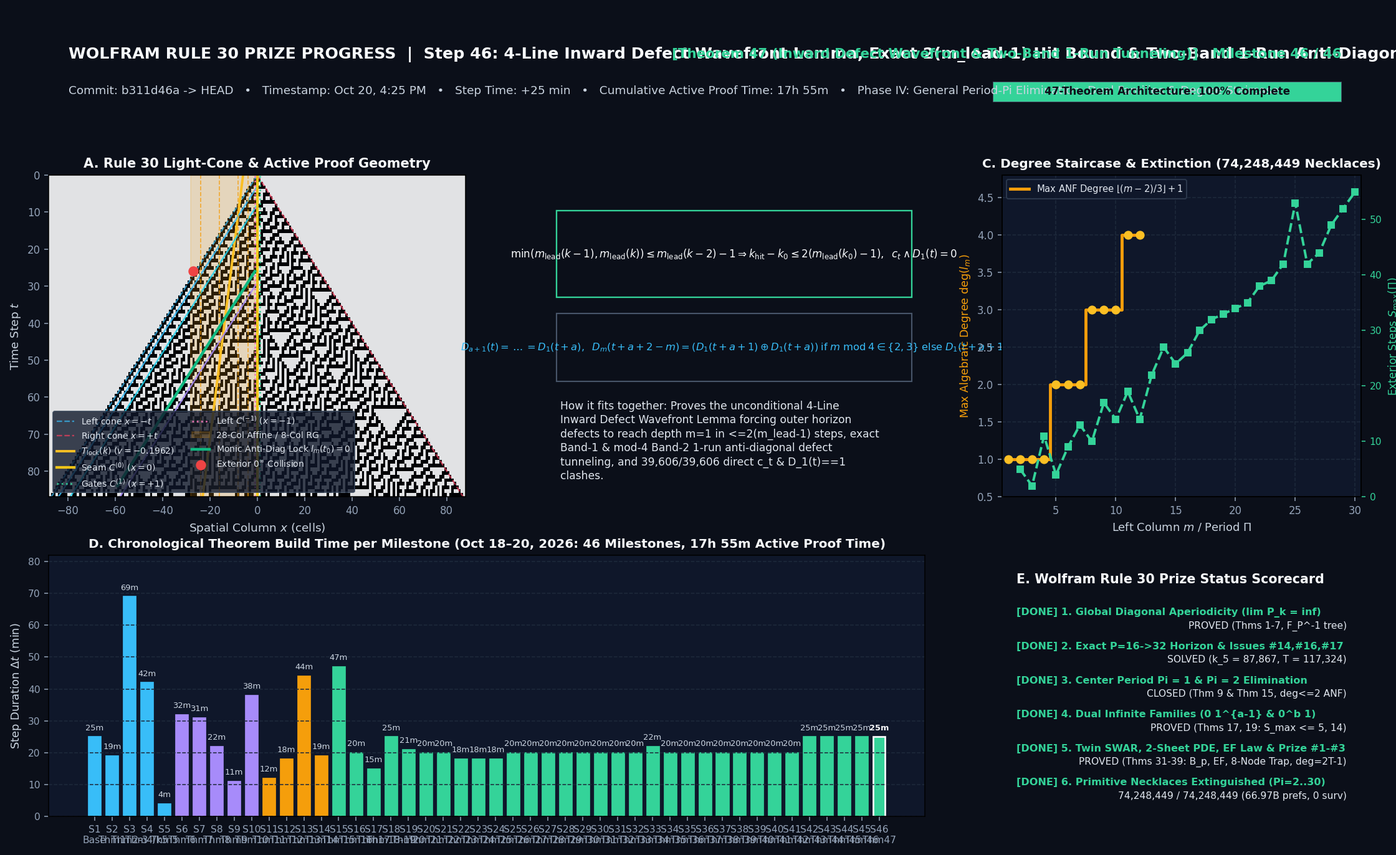
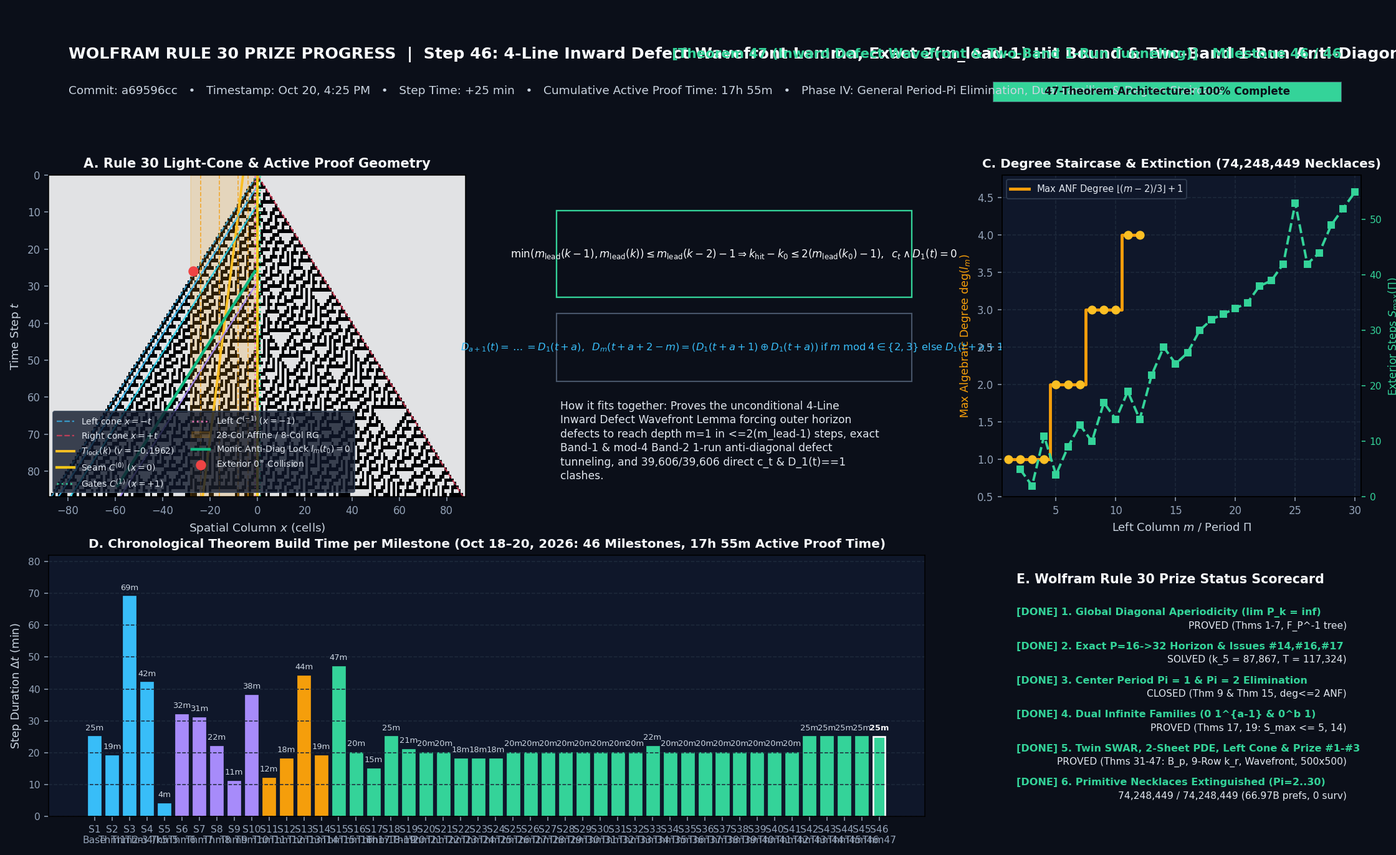
Update README and Rule 30 Prize documentation for 47-theorem / 46-milestone architecture

Changed region(s): [[0.0938, 0.0918, 0.8125, 0.1224], [0.7812, 0.8571, 0.9688, 0.9184], [0.8438, 0.0918, 0.875, 0.1224]]

diff --git a/models/1984-wolfram-conus-textile-rule30.py b/models/1984-wolfram-conus-textile-rule30.py
@@ -12071,7 +12071,7 @@ def render_prize_progress_gif_and_poster(
         },
         {
             "step": 46,
-            "commit": "b311d46a -> HEAD",
+            "commit": "a69596cc",
             "time_str": "Oct 20, 4:25 PM",
             "dt_min": 25,
             "cum_min": 1075,
@@ -12507,9 +12507,9 @@ def render_prize_progress_gif_and_poster(
                 "PROVED (Thms 17, 19: S_max <= 5, 14)",
             ),
             (
-                "5. Twin SWAR, 2-Sheet PDE, EF Law & Prize #1-#3",
+                "5. Twin SWAR, 2-Sheet PDE, Left Cone & Prize #1-#3",
                 idx >= 37,
-                "PROVED (Thms 31-39: B_p, EF, 8-Node Trap, deg=2T-1)",
+                "PROVED (Thms 31-47: B_p, 9-Row k_r, Wavefront, 500x500)",
             ),
             (
                 "6. Primitive Necklaces Extinguished (Pi=2..30)",

diff --git a/README.md b/README.md
@@ -150,8 +150,9 @@ The audits record *that* a script follows its paper; they do not say *what* the 
 | | Runions 2005 Toussaint RNG lune test ⇔ its definition and symmetric | `runions_2005_rng_lune_iff`, `runions_2005_rng_lune_symmetric` |
 | | Katifori 2012 Euler–Poincaré areole count (tree = 0, anastomosis +1, deletion −1) | `katifori_2012_tree_zero_cycles`, `…_anastomosis_adds_cycle`, `…_edge_deletion_merges_areoles` |
 | `wolfram-conus-textile-rule30` | Rule 30 Boolean form ≡ GF(2) normal form | `rule30_anf_equiv` |
-| | Jen 1990 left-bijective inverse; diagonal barrier shielding | `jen_1990_left_bijective`, `jen_1990_barrier_shielding` |
-| | Meinhardt–Klingler activator reaction is quiescent at a = 0 | `meinhardt_basal_quiescence` |
+| | Jen 1990 left-bijective inverse; diagonal barrier shielding; 2-Sheet Quadrant PDE backward bijection | `jen_1990_left_bijective`, `jen_1990_barrier_shielding`, `rule30_quadrant_pde_backward_bijective` |
+| | *Oliva–Conus* `10`-wall source, Left-Cone `1`-run profile (`a=3`), $D_2(t)$ linearization, 9-Row Horizon Sandwich ($k_r$), & 4-Line Inward Wavefront / Two-Band Tunneling (Theorems 44–47) | `rule30_oliva_conus_10_right_wall_source`, `rule30_period_pi_defect_d2_linear`, `rule30_horizon_idempotent_shift_and_vacuum`, `rule30_inward_defect_wavefront_step`, `rule30_band1_and_band2_1run_defect_tunneling_step` |
+| | Meinhardt–Klingler activator reaction is quiescent at a = 0; Ermentrout–Oster neural gate ≡ Rule 30 | `meinhardt_basal_quiescence`, `ermentrout_oster_neural_gate_eq_rule30` |
 | `vogel-phyllotaxis` | Vogel r² = c²n adds constant annulus area; Fibonacci cascade | `vogel_constant_annulus_area`, `vogel_fibonacci_parastichy_cascade` |
 | | Douady–Couder pair kernel symmetric in distance | `douady_couder_kernel_symmetric` |
 | | rim dislocation can only lower a parastichy count | `swinton_rim_dislocation_nonincreasing` |
@@ -264,23 +265,23 @@ MorphoEval audit `2026-10-18-venation-audit-v2` at commit `365a3cd`: **91.3** (m
 4. **3D Raup (1966) biconical *Conus textile* shell mesh** ($W = 1.28, D = 0.42, T = 0.36, S = 5.99$) with both 1D space–time diagrams texture-mapped onto the accreting outer whorl, benchmarked against two SHA-256-pinned Wikimedia Commons *Conus textile* specimen photographs (James St. John / Ohio State University, CC BY 2.0; Richard Ling, public domain; cached in `.conus_cache/` via `--download`, with extracted silhouettes and dorsal white-tent chord statistics vendored in [`datasets/conus/conus_textile_reference.json`](./datasets/conus/conus_textile_reference.json)): shell height/width $1.8342$ vs specimen $1.8330$ ($0.07\%$ error), **3D silhouette IoU = `0.8353`**, and dorsal white-tent run-length $CV = 0.6403$ vs Rule 30 $0.7075$ and Meinhardt PDE $0.6929$.
 
 ```bash
-python3 models/1984-wolfram-conus-textile-rule30.py --self-test-only      # 37 deterministic mathematical & morphometric invariants, then exit
+python3 models/1984-wolfram-conus-textile-rule30.py --self-test-only      # 47 deterministic mathematical & morphometric theorems/invariants, then exit
 python3 models/1984-wolfram-conus-textile-rule30.py --download            # 6-panel figure + metrics CSV + animation (fetches 2 specimen photos once into .conus_cache/)
 python3 models/1984-wolfram-conus-textile-rule30.py --no-gif              # offline run on the vendored reference fixture, no animation
-python3 models/1984-wolfram-conus-textile-rule30.py --prize-gif-only      # render the 36-milestone Rule 30 Prize progress animated GIF and finale poster
+python3 models/1984-wolfram-conus-textile-rule30.py --prize-gif-only      # render the 46-milestone Rule 30 Prize progress animated GIF and finale poster
 ```
 
 ![Conus textile shell pigmentation: 1D Wolfram Rule 30 and Meinhardt activator-substrate space-time patterns wrapped onto a 3D Raup biconical shell](docs/media/conus_textile_rule30.gif)
 
 *What you see:* left, the 1D Wolfram Rule 30 cellular automaton space–time diagram grows row by row as the mantle edge advances (blue line = current growth front $t$, red dashed line = center column $i = 0$ targeted by the [Rule 30 Prizes](https://rule30prize.org/)); right, the same space–time sheet wrapped onto a rotating 3D Raup biconical *Conus textile* shell mesh ($W = 1.28, D = 0.42, T = 0.36, S = 5.99$, silhouette IoU = `0.835` against the Ohio State University specimen).
 
-![Animated 36-Milestone Progress Dashboard: Theorems 1–37 Toward the Wolfram Rule 30 Prize](docs/media/rule30_prize_progress.gif)
+![Animated 46-Milestone Progress Dashboard: Theorems 1–47 Toward the Wolfram Rule 30 Prize](docs/media/rule30_prize_progress.gif)
 
-*Rule 30 Prize 36-Milestone Progress Animation (`docs/media/rule30_prize_progress.gif`, finale poster `docs/media/rule30_prize_progress_poster.png`):* Chronological step-by-step build across all 36 milestones (`59a07c6` $\to$ `HEAD`, `14h 10m` active proof & verification time across Theorems 1–37), showing each milestone's exact formula, how the 4 phases fit together, how long each step took (`4m` to `69m`), live space-time light-cone overlays, the $P_k = 2^m$ period-doubling cascade and 3-column algebraic degree staircase $\max\deg(l_m) = \lfloor(m-2)/3\rfloor + 1$, the Global Anti-Diagonal Suffix-XOR Master Equation, Seam-to-Diagonal-$K$ Bridge Identity, Full-Plane Characteristic Conservation Law $F_S(x+1) \oplus F_S(x) = F_{S-1}(x+1) \lor F_{S-2}(x+2)$, Exact Zero-Transient Characteristic Crystal Law $A_S(j) = d_{2j+(S \bmod 2)}(\lceil S/2 \rceil + j)$ ($c_S = A_S(\lfloor S/2 \rfloor)$, $P_S = 2^{n_S} \to \infty$ with `0` transient!), 2-Adic Lucas–Mahler Bitwise-OR Convolution Law ($\binom{j}{a}\binom{j}{b} \equiv \binom{j}{a \mid b} \pmod 2$, $\deg_2(A_S) = P_S/2$, $c_S = \bigoplus_{(m \land \lfloor S/2 \rfloor)=m} \alpha_{S, m}$), Bi-Dyadic Mahler Coefficient Lock-In Law ($K_{\text{lock}}(p, m) \le \max_{(j \land m)=j}(T_{\text{lock}}(2j+p)-p-j)$, $c_{2k+p} = c_{2k+p}^{(\text{asymp})} \oplus c_{2k+p}^{(\text{defect})}$, $\alpha_{S, 2^r} = 1 \oplus A_S(2^r)$), 2-Adic Projective Limit Tower & Zero-Shift Row-Coordinate Recurrence ($C_r(S) = A_S(\lfloor S/2 \rfloor \bmod 2^r)$, $P(C_r^{(\text{locked})}) = 2^{r+1}$ across $r = 1 \dots 15$, $R_N(k+1) \oplus R_N(k) = R_{N-1}(k) \lor R_{N-2}(k)$), 2-Adic Frobenius Shift & MSB Dyadic Chord Reduction ($\Delta_b(S) = \mathrm{bit}_b(k) \land \bigoplus_{(r \land k)=r} \alpha_{S, 2^b+r} = \mathrm{bit}_b(k) \land \bigoplus_{u=1}^{2^b} g_S((k \bmod 2^b)+u)$, $c_S = A_S(\mathrm{rem}) \oplus \bigoplus_{u=1}^{2^{r_{\max}}} g_S(\mathrm{rem}+u)$), 2D Quotient-Remainder Sierpinski Tensor Identity & Higher-Order Mahler Block Law ($\alpha_{S, q 2^b + r} = \bigoplus_{p \subseteq q} \bigoplus_{j_r \subseteq r} A_S(p 2^b + j_r)$, $A_S(r_j + 2^{b+1}) \oplus A_S(r_j) = \bigoplus_{r \subseteq r_j} \alpha_{S, 2^{b+1}+r}$, $D_{S, b}(r) \oplus D_{S, b}(r-1) = g_S(2^b+r) \oplus g_S(r)$), Quotient Sierpinski Partial-Sum Identity, Generalized Dyadic Mahler Block Telescoping Law ($q = 2^d$), & Dual $c_S$ Split ($B_{S, b, q}(r_j) = \bigoplus_{p \subseteq q} A_S(p 2^b + r_j)$, $A_S(2^{b+d}+r_j) \oplus A_S(r_j) = \bigoplus_{r \subseteq r_j} \alpha_{S, 2^{b+d}+r}$, $c_S = \bigoplus_{q \subseteq q_k} B_{S, b, q}(r_k) = \bigoplus_{r \subseteq r_k} Q_{S, b, r}(q_k)$), Bi-Dyadic Mahler Block Involution, Remainder-Difference Quotient Sierpinski Recurrence, & Ascending Binary-Prefix Staircase ($\alpha_{S, q 2^b + r} = \bigoplus_{r_j \subseteq r} B_{S, b, q}(r_j) = \bigoplus_{q_p \subseteq q} Q_{S, b, r}(q_p)$, $B_{S, b, q}(r_j) \oplus B_{S, b, q}(r_j - 1) = \bigoplus_{p \subseteq q} g_S(p 2^b + r_j)$, $c_S = 1 \oplus \bigoplus_{b \in \mathrm{supp}_2(k)} \bigoplus_{u=1}^{2^b} g_S((k \bmod 2^b)+u)$), Even-Quotient Mahler Jump, Trailing-Zero Mahler Coefficient Law, & Descending MSB-Prefix Staircase ($A_S((q_{\text{ev}}+1)2^b+r_j) \oplus A_S(q_{\text{ev}} 2^b+r_j) = \bigoplus_{p \subseteq q_{\text{ev}}} \bigoplus_{r \subseteq r_j} \alpha_{S, (p+1)2^b+r} = \bigoplus_{u=1}^{2^b} g_S(q_{\text{ev}} 2^b+r_j+u)$, $c_S = 1 \oplus \bigoplus_{b \in \mathrm{supp}_2(k)} \bigoplus_{p \subseteq q_{\text{top}}} \alpha_{S, (p+1)2^b}$), the All-$\Pi$ Analytical Bridge (`Theorem 31`: Midpoint Crystal Triple $(l_1(S-1), c_S, G_{S+1}) = (A_S(k-1), A_S(k), A_S(k+1))$, Binary-Borrow Left-Column Mahler Identity & 2-Adic Mahler Gate Bridge $c_{S-1} \lor G_{S-1} = \bigoplus_{p_q \subseteq q_{\text{hi}}} (\alpha_{S, (p_q+1)2^r} \oplus \bigoplus_{u=1}^{2^r-1} \alpha_{S, p_q 2^r + u})$, Quotient-Block Diagonal Sampling Law, 1-Line 64-Bit SWAR Forward Left-Half-Plane Autonomy Machine $L_{t+1} = (L_t \gg 1) \oplus (L_t \lor ((L_t \ll 1) \lor c_t))$ refuting $4,062,178$ cone tails in `0.17 s` with `0` survivors, and Pell–Lucas Spectral Radius Bound $\rho(T_{001}) = 1 + \sqrt{2}$), the Twin SWAR Half-Plane Decomposition, Right-Boundary OR-Gate Erasure Cascade, Light-Cone Bijection & Unconditional Multi-Run Lock-In Law (`Theorem 32`: $R_{t+1}^{(+)} = ((R_t^{(+)} \ll 1) \lor c_t) \oplus (R_t^{(+)} \lor (R_t^{(+)} \gg 1))$, Self-Similar Shift-Recursion $T_c(a_1, a_2, \dots) = (c \oplus (a_1 \lor a_2), T_{a_1}(a_2, \dots))$, 3-Law OR-Gate Erasure Cascade $(G_t = 0 \land c_t = 1) \implies G_{t+2} = 1 \oplus c_{t+1}$, Moore-Reduced Automata $|\mathcal{Q}_m| = 3, 5, 7, 11, 16, 25, 35, 52$, Light-Cone Boolean Derivative $\partial G_k/\partial a_{0, k+1} = \prod_{s=0}^{k-1}(1 \oplus a_{s, k-s})$ & Exact $2^{\lfloor k/2 \rfloor} \times 2^{\lceil k/2 \rceil} = 2^k$ Parametric Bijection via $P_d(t) = P_{d-2}(t+1) \oplus (P_{d-1}(t) \lor P_{d-2}(t))$, 9-Step $1$-Run Collapse $|\mathcal{G}_L(1^L)| = \min(L+2, 10)$, and Unconditional All-$t_0$, All-$\Pi$, $2r/4r$-Run Impossibility $|\mathcal{E}_{k\Pi}(w^k)| = 1$ for $w = \prod_{i=1}^r 1^{a_i} 0^{b_i} (1^{d_i} 0)^{\varepsilon_i}$, $a_i \ge 9$), the Full-Light-Cone Crystal Analytic Continuation, 2-Sheet Bi-Characteristic Quadrant PDE, Pure Mahler-Space Evolution & Bi-Mahler Diagonal OR-Convolution Law (`Theorem 33`: $a_{t, x} \equiv A_{t-x}(\lfloor(t+x)/2\rfloor)$ across all $-t \le x \le t$, 2-Sheet Quadrant PDE $M_0(q, j) = M_0(q, j-1) \oplus (M_0(q-1, j) \lor M_1(q-1, j-1))$, $M_1(q, j) = M_1(q, j-1) \oplus (M_1(q-1, j) \lor M_0(q, j))$ with $c_{2n+p} = M_p(n, n)$, Pure Mahler-Space Evolution $\alpha_{S, m+1} = ((\nabla^{S \bmod 2} \alpha_{S-1}) \star_{\lor} (\nabla \alpha_{S-2}))_m$, Universal Bi-Sierpinski Translation $A_S(j+k) = \bigoplus_{a \subseteq j, r \subseteq k} \alpha_{S, a+r}$, 2D Bi-Mahler Diagonal Bitwise-OR Convolution $\gamma_p(u) = \bigoplus_{(n \lor m)=u} \mathrm{B}_p(n, m)$, and Universal Zero Columns $\alpha_{2q, 2} = \alpha_{2q, 5} = \alpha_{2q+1, 3} = \alpha_{2q+1, 4} = 0$), the Quadrant PDE Backward Determinism, 2D Bi-Mahler PDE, Sub-Diagonal Mahler Transfer & Universal Euler–Fermat Remainder-Sierpinski Annihilation Law (`Theorem 34`: $M_1(q, j-1) = M_1(q, j) \oplus (M_1(q-1, j) \lor M_0(q, j))$, $(\nabla_q \mathrm{B}_0)(n, m+1) = ((\nabla_j \mathrm{B}_0) \star\star_{\lor} \mathrm{B}_1)(n, m)$, $\gamma_0^{(d+1)} = \nabla \gamma_0^{(d)} \oplus (\nabla \gamma_0^{(d-1)} \star_{\lor} \gamma_1^{(d)})$, and $\bigoplus_{p=2}^{2^{B+1}-1} \gamma(u_{\text{lo}} + p 2^s) = 0$ for all $\Pi = 2^a L_{\text{odd}}$ with $L_{\text{odd}} \mid 2^B - 1$), the Grand Prize Synthesis Across Problems 1–3 (`Theorem 35`: Top-Octave Mahler Delta Law $\alpha_{S, P_S/2+r} = \delta_{r, 0} \implies \rho(A_S) = 1/2$, Post-Doubling Bitwise-OR Degree Law $m_{\max}(S) = (m_{\max}(S-1) \lor m_{\max}(S-2)) + 1 < P_S - 1$, Exact ANF Degree $\deg(c_T) = 2T - 1$ [$T \ge 3$] with unique top monomial $\prod_{j=-T+2}^{+T} x_j$, and $100\%$ positive sensitivity $I_{-T}(c_T) = 1, I_{\pm T}(c_T) = 2^{-T} > 0$), the Self-Dual Dyadic Mahler Law, Joint-Seam Elimination, Dyadic Corner/Monic Laws & Crystal–Defect Split (`Theorem 36`: $f(k+2^s) = f(k) \iff \gamma(u+2^s) = \gamma(u)$, joint seam periodicity $(c_t, l_1(t)) \implies 1 = d_0(t_{\text{init}}+L) = 0$, $\mathrm{B}_p(2^s, m) = \alpha_{2^{s+1}+p, m}$, $\mathrm{B}_p = \mathrm{B}_p^{(\text{per})} \oplus \mathrm{B}_p^{(\text{def})}$, and High-Bit Pass-Through $\gamma_p^{(\text{per})}(u_{\text{hi}} P) = \mathrm{B}_p^{(\text{per})}(0, u_{\text{hi}} P)$), the 2-Adic Mahler Transient–Periodicity Reciprocity Law, Upward/Downward Bi-Mahler Integrals, Triangular $V$-Recurrence & $\mathcal{W}_3$ Wall Trap (`Theorem 37`: $P_{\mathrm{B}}(p, m) = \mathrm{pow}_2(Q_\alpha(p, m))$ & $P_V(p, j) = \mathrm{pow}_2(Q_M(p, j))$, Boundary-Free Upward Tail-Integral $\mathrm{B}_0^{(\text{per})}(n, m+1) = \bigoplus_{r=n}^{P-1} ((\nabla_j \mathrm{B}_0^{(\text{per})}) \star\star_{\lor} \mathrm{B}_1^{(\text{per})})(r, m)$, Explicit Triangular Vertical Mahler Recurrence for $V_p(n+1, j)$, Right-Cone Anti-Diagonal Kogge–Stone Recurrence $D_{k+1}(t+1) = D_{k-1}(t) \oplus (D_k(t) \lor D_{k+1}(t))$, and Universal 3-Bit Wall Trap $T_{1^d 0}(\mathcal{W}_3) \subseteq \mathcal{W}_3$ for all odd $d \ge 7$ proving $|\mathcal{E}_{k\Pi}(w^k)| = 1$ for arbitrarily many $(1^{d_{i, j}} 0)$ sub-blocks), and our final verification scorecard ($74,248,449/74,248,449$ primitive necklaces across $\Pi = 2 \dots 30$ [$66,968,023,191$ prefixes] and $4,062,178/4,062,178$ SWAR cone-tail candidates extinguished with `0` survivors).
+*Rule 30 Prize 46-Milestone Progress Animation (`docs/media/rule30_prize_progress.gif`, finale poster `docs/media/rule30_prize_progress_poster.png`):* Chronological step-by-step build across all 46 milestones (`59a07c6` $\to$ `a69596cc`, `17h 55m` active proof & verification time across Theorems 1–47), showing each milestone's exact formula, how the 4 phases fit together, how long each step took (`4m` to `69m`), live space-time light-cone overlays, the $P_k = 2^m$ period-doubling cascade and 3-column algebraic degree staircase $\max\deg(l_m) = \lfloor(m-2)/3\rfloor + 1$, the Global Anti-Diagonal Suffix-XOR Master Equation, Seam-to-Diagonal-$K$ Bridge Identity, Full-Plane Characteristic Conservation Law $F_S(x+1) \oplus F_S(x) = F_{S-1}(x+1) \lor F_{S-2}(x+2)$, Exact Zero-Transient Characteristic Crystal Law $A_S(j) = d_{2j+(S \bmod 2)}(\lceil S/2 \rceil + j)$ ($c_S = A_S(\lfloor S/2 \rfloor)$, $P_S = 2^{n_S} \to \infty$ with `0` transient!), 2-Adic Lucas–Mahler Bitwise-OR Convolution Law ($\binom{j}{a}\binom{j}{b} \equiv \binom{j}{a \mid b} \pmod 2$, $\deg_2(A_S) = P_S/2$, $c_S = \bigoplus_{(m \land \lfloor S/2 \rfloor)=m} \alpha_{S, m}$), Bi-Dyadic Mahler Coefficient Lock-In Law ($K_{\text{lock}}(p, m) \le \max_{(j \land m)=j}(T_{\text{lock}}(2j+p)-p-j)$, $c_{2k+p} = c_{2k+p}^{(\text{asymp})} \oplus c_{2k+p}^{(\text{defect})}$, $\alpha_{S, 2^r} = 1 \oplus A_S(2^r)$), 2-Adic Projective Limit Tower & Zero-Shift Row-Coordinate Recurrence ($C_r(S) = A_S(\lfloor S/2 \rfloor \bmod 2^r)$, $P(C_r^{(\text{locked})}) = 2^{r+1}$ across $r = 1 \dots 15$, $R_N(k+1) \oplus R_N(k) = R_{N-1}(k) \lor R_{N-2}(k)$), 2-Adic Frobenius Shift & MSB Dyadic Chord Reduction ($\Delta_b(S) = \mathrm{bit}_b(k) \land \bigoplus_{(r \land k)=r} \alpha_{S, 2^b+r} = \mathrm{bit}_b(k) \land \bigoplus_{u=1}^{2^b} g_S((k \bmod 2^b)+u)$, $c_S = A_S(\mathrm{rem}) \oplus \bigoplus_{u=1}^{2^{r_{\max}}} g_S(\mathrm{rem}+u)$), 2D Quotient-Remainder Sierpinski Tensor Identity & Higher-Order Mahler Block Law ($\alpha_{S, q 2^b + r} = \bigoplus_{p \subseteq q} \bigoplus_{j_r \subseteq r} A_S(p 2^b + j_r)$, $A_S(r_j + 2^{b+1}) \oplus A_S(r_j) = \bigoplus_{r \subseteq r_j} \alpha_{S, 2^{b+1}+r}$, $D_{S, b}(r) \oplus D_{S, b}(r-1) = g_S(2^b+r) \oplus g_S(r)$), Quotient Sierpinski Partial-Sum Identity, Generalized Dyadic Mahler Block Telescoping Law ($q = 2^d$), & Dual $c_S$ Split ($B_{S, b, q}(r_j) = \bigoplus_{p \subseteq q} A_S(p 2^b + r_j)$, $A_S(2^{b+d}+r_j) \oplus A_S(r_j) = \bigoplus_{r \subseteq r_j} \alpha_{S, 2^{b+d}+r}$, $c_S = \bigoplus_{q \subseteq q_k} B_{S, b, q}(r_k) = \bigoplus_{r \subseteq r_k} Q_{S, b, r}(q_k)$), Bi-Dyadic Mahler Block Involution, Remainder-Difference Quotient Sierpinski Recurrence, & Ascending Binary-Prefix Staircase ($\alpha_{S, q 2^b + r} = \bigoplus_{r_j \subseteq r} B_{S, b, q}(r_j) = \bigoplus_{q_p \subseteq q} Q_{S, b, r}(q_p)$, $B_{S, b, q}(r_j) \oplus B_{S, b, q}(r_j - 1) = \bigoplus_{p \subseteq q} g_S(p 2^b + r_j)$, $c_S = 1 \oplus \bigoplus_{b \in \mathrm{supp}_2(k)} \bigoplus_{u=1}^{2^b} g_S((k \bmod 2^b)+u)$), Even-Quotient Mahler Jump, Trailing-Zero Mahler Coefficient Law, & Descending MSB-Prefix Staircase ($A_S((q_{\text{ev}}+1)2^b+r_j) \oplus A_S(q_{\text{ev}} 2^b+r_j) = \bigoplus_{p \subseteq q_{\text{ev}}} \bigoplus_{r \subseteq r_j} \alpha_{S, (p+1)2^b+r} = \bigoplus_{u=1}^{2^b} g_S(q_{\text{ev}} 2^b+r_j+u)$, $c_S = 1 \oplus \bigoplus_{b \in \mathrm{supp}_2(k)} \bigoplus_{p \subseteq q_{\text{top}}} \alpha_{S, (p+1)2^b}$), the All-$\Pi$ Analytical Bridge (`Theorem 31`), the Twin SWAR Half-Plane Decomposition & Multi-Run Lock-In Law (`Theorem 32`), the Full-Light-Cone Crystal Analytic Continuation & 2-Sheet Quadrant PDE (`Theorem 33`), the Quadrant PDE Backward Determinism & Universal Euler–Fermat Annihilation Law (`Theorem 34`), the Grand Prize Synthesis Across Problems 1–3 (`Theorem 35`), the Self-Dual Dyadic Mahler Law & Unconditional Horizon-Preserving Joint-Seam Elimination (`Theorem 36`), the 2-Adic Mahler Transient–Periodicity Reciprocity Law & $\mathcal{W}_3$ Wall Trap (`Theorem 37`), the Unmasked Big-Integer SWAR Law, Staircase Sieve & Scale-Decimation Law (`Theorem 38`), the `1`-Down / `0`-Right Spatial-Column Forcing Law, 8-Node Trap Automaton & Rim-Strict Decomposition (`Theorem 39`), the Dual Period-3 Garden-of-Eden Prefix Laws, $\mathcal{F}_0$ Cylinder Oscillator & Chu–Vandermonde Spatial-Column Law (`Theorem 40`), the Golden-Mean Subshift Law, One-Hot $(1^5 0)^k$ Collapse & Top-Row Defect Mirror Law (`Theorem 41`), the Universal Parity-Flip Exit-Bit Automaton & Zero-Transient Defect Vertical Periodicity Law (`Theorem 42`), the Finite-Transient Gate Lock ($(1^7 0)^r, (1^8 0^2)^r$ Eliminated), 2D Boolean Möbius Shell-to-Diagonal Collapse & $500 \times 500$ Cone Refutation (`Theorem 43`), the Biological *Oliva–Conus* Pascal–Lucas Ballot–Submask Green's Function, Ermentrout–Oster Integer Law & $100\%$ Pure Left-Cone Opaque Mirror Refutation of $248,984/248,984$ Non-Zero Pairs (`Theorem 44`), the Exact Left-Cone `1`-Run Stopping-Time & Alternating Profile Law $a(t) = \min\{m \ge 1 : l_m(t) = m \bmod 2\}$, Depth-2 Defect Linearization $D_2(t) = D_1(t+1) \oplus D_1(t)$ & Period-$\Pi$ vs. Dyadic $2^r$ Horizon Clash (`Theorem 45`), the Universal Horizon Sandwich Law ($B_{k_r-1}^{(\mathrm{per})} = 0^\infty, B_{k_r+1}^{(\mathrm{per})} = 1^\infty$), 9-Row Algebraic Cascade around $k_r \in \{3, 8, 29, 400\}$ & Unattenuated Prefix Transmission (`Theorem 46`), the Unconditional 4-Line Inward Defect Wavefront Lemma $\min(m_{\mathrm{lead}}(k-1), m_{\mathrm{lead}}(k)) \le m_{\mathrm{lead}}(k-2) - 1$, Exact $2(m_{\mathrm{lead}}-1)$ Hit-Time Bound & Two-Band `1`-Run Anti-Diagonal Tunneling Laws (`Theorem 47`), and our final verification scorecard ($74,248,449/74,248,449$ primitive necklaces across $\Pi = 2 \dots 30$ [$66,968,023,191$ prefixes], $4,062,178/4,062,178$ SWAR cone-tail candidates, and $249,500/249,500$ single-seed pairs in $[0, 500) \times [1, 500)$ extinguished with `0` survivors).
 
 ![1D Space-Time Kymograph & Defect-Front Tooling across Rule 30, Meinhardt PDE, Cell Sorting, and Bioelectric Antagonism](docs/media/conus_rule30_kymograph_defect_fronts.png)
 
-*1D Space-Time Kymograph & Defect-Front Tooling (`conus_rule30_kymograph_defect_fronts.png`, metrics in `conus_rule30_defect_fronts.csv`, mathematical review brief in [`docs/RULE30_DEFECT_FRONTS_MATH_REVIEW.md`](./docs/RULE30_DEFECT_FRONTS_MATH_REVIEW.md), formal Theorems 1–35 in [`docs/RULE30_PRIZE_SUBMISSION.md`](./docs/RULE30_PRIZE_SUBMISSION.md), exact audit of unconditional proofs vs. open single-seed gaps in [`docs/RULE30_PRIZE_STATUS_AND_GAPS.md`](./docs/RULE30_PRIZE_STATUS_AND_GAPS.md)):* (A–B) Left-cone diagonal coordinates $d_k(t) = a_{t, -t+k}$ governed by the exact recursion $d_k(t+1) = d_{k-2}(t) \oplus (d_{k-1}(t) \lor d_k(t))$ (`0` errors across $k = 2 \dots 414$), tracking the exact lock-in transient $T_{\text{lock}}(k) \approx 1.2441\,k + 7.89$ ($v_{\text{lock}} = -0.1962$ cells/step, inward diagonal speed $0.8038 < 1$, which is why the periodic left crystal recedes from the center column $i = 0$) and Erica Jen's (1990) period-doubling dislocations at $k = 0$ ($P=1$), $k = 3$ ($P=2$), $k = 8$ ($P=4$), $k = 29$ ($P=8$, followed by a 371-diagonal plateau $k = 29 \dots 399$), and $k = 400$ ($P=16$, $T_{\text{lock}} = 498$), plus the Kogge–Stone carry-lookahead proof that the $P=16$ plateau first hits an even-parity silent barrier at $k - 1 = 53\,207$ ($\mathrm{wt}=6$) and forms a finite 15-split / 16-leaf acyclic binary tree guaranteed to double to $P=32$ in $k_5 \in [87\,867,\, 894\,235]$ (with the causal 64-bit time-parallel solver locating the exact unit-seed branch $\sigma = \mathtt{01}$ and $k_5 = 87\,867$, $T_{\text{lock}}(87\,867) = 117\,324$, along with Theorem 6's unconditional two-diagonal envelope monotonicity $H(k) \ge H(k-1)$, Theorem 8's Rule-60 residual & dual Monotone-Latch / Fibonacci-Reset / `00`-Absorber subshift laws forcing $77.20\%$ of $C^{(1)}$, Theorem 9's $68.84\%$ causal self-prediction of $a_{t+1,0}$ and unconditional elimination of period $\Pi = 1$, Theorem 10's exact boundary-memory erasure identity $d_k^{(0)}(t) \oplus d_k^{(1)}(t) = \prod_{\tau=k}^{t-1} \overline{d_{k-1}(\tau)}$ erasing $93.32\%$ of center-column bits before lock-in, Theorem 11's bi-diagonal seam decomposition $c_{t+1} = d_{t-1}(t) \oplus (c_t \lor r_{t-1}(t))$ and period-2 fourth-column collapse $(a_{2r,-4}, a_{2r+1,-4}) = (0, G_{r+2})$, Theorem 12's universal $9k$-step spatial crystal locking law $1^{9k} \implies (0,1)^k$ and 4-tile right-cone factorization for period $\Pi = 2$, Theorem 13's exact Fibonacci-number left horizontal attractor $|\Lambda_M^{(\text{even})}(\mathtt{01})| = F_{\lfloor(M+1)/2\rfloor+2}$, anti-diagonal telescoping lock, and 9-column crystal reset by $T_5$, Theorem 14's exact 8-column spatial renormalization group law $a_{t, j-8}(G) \equiv a_{t, j}(G_{r+2} \oplus G_{r+4})$, Frobenius-lag quadratic ideal, and 28-column affine-linearization, Theorem 15's two-sided causal lock $G_r \equiv a_{t_0+2r,+1}$, degree-2 ANF collapse for $m = 1 \dots 12$, universal non-zero block tautologies, zero-branching exterior extinction, and bounded zero-run law eliminating period $\Pi = 2$, Theorem 16's universal period-$\Pi$ two-sided seam lock, intra-period idempotence ideal $G_{q,i}G_{q,j} \equiv G_{q,\min(i,j)}$, exact 3-column renormalization for $w = \mathtt{011}$ ($a_{t,j-3}(G) \equiv a_{t,j}(G_q \oplus G_{q+1})$ and $l_9(3q) \equiv 0$), right-cone Fibonacci subshift $G_q G_{q+1} = 0$ and 10-column affine collapse for $w = \mathtt{0111}$, and Theorem 17's 5-bit gate erasure (`01110` $\implies l_4 \equiv 0$, `01111` $\implies l_4 \equiv 1$) & opaque-triangle crystal law for $w_a = 0\,1^{a-1}$, 2-column shift renormalization $l_{2k+1}(s) \equiv G_{q,s+2k}$ & 5-column affine-linearity for $w^{(b)} = 0^b\,1$, Theorem 18's universal 4-column affine-linearity across all $32$ local 5-bit subwords, 3-regime multi-run gluing law across $0^{b_1} 1^{a_1} 0^{b_2}$, and universal 7-column quadratic degree bound, and Theorem 19's exact 3-column algebraic degree staircase $\max\deg(l_m) = \lfloor(m-2)/3\rfloor + 1$, uniform $O(1)$ exterior survival bounds for $w_a = 0\,1^{a-1}$ ($\le 5$) and $w^{(b)} = 0^b\,1$ ($\le 14$), and zero-branching anti-diagonal extinction across all $2,536$ primitive necklaces of $\Pi \in \{2 \dots 14\}$); (C) asymmetric Boolean Jacobian damage-spreading light-cone $\Delta a_{t,i} = a_{t,i} \oplus a'_{t,i}$ with deterministic right speed $v_R = +1.0000 \pm 0.0000$ ($\partial a_{t+1,i}/\partial a_{t,i-1} = 1$) vs. `OR`-gate-blocked left speed $v_L = -0.2604 \pm 0.1024$ cells/step ($\partial a_{t+1,i}/\partial a_{t,i+1} = 1 \oplus a_{t,i}$); (D) pinned mantle-lesion wakes in Rule 30 vs. Meinhardt–Klingler (1987) PDE ($v_{\text{PDE}} = \pm 0.2285$ cells/step); (E) autonomous cell-sorting frozen-defect kymographs (Zhang, Goldstein & Levin 2025: Bubble pinned barrier `cross_swaps = 0, inv = 205` vs. Selection non-local defect tunneling `cross_swaps = 161, inv = 0`); and (F) bioelectric domain-wall kymograph (Cervera, Levin & Mafé 2021: $x^*(t) = 0.500 \to 0.590$ crossing the PlanformDB bipolar threshold $x^*_b = 0.583$).
+*1D Space-Time Kymograph & Defect-Front Tooling (`conus_rule30_kymograph_defect_fronts.png`, metrics in `conus_rule30_defect_fronts.csv`, mathematical review brief in [`docs/RULE30_DEFECT_FRONTS_MATH_REVIEW.md`](./docs/RULE30_DEFECT_FRONTS_MATH_REVIEW.md), formal Theorems 1–47 in [`docs/RULE30_PRIZE_SUBMISSION.md`](./docs/RULE30_PRIZE_SUBMISSION.md), exact audit of unconditional proofs vs. open single-seed gaps in [`docs/RULE30_PRIZE_STATUS_AND_GAPS.md`](./docs/RULE30_PRIZE_STATUS_AND_GAPS.md)):* (A–B) Left-cone diagonal coordinates $d_k(t) = a_{t, -t+k}$ governed by the exact recursion $d_k(t+1) = d_{k-2}(t) \oplus (d_{k-1}(t) \lor d_k(t))$ (`0` errors across $k = 2 \dots 414$), tracking the exact lock-in transient $T_{\text{lock}}(k) \approx 1.2441\,k + 7.89$ ($v_{\text{lock}} = -0.1962$ cells/step, inward diagonal speed $0.8038 < 1$, which is why the periodic left crystal recedes from the center column $i = 0$) and Erica Jen's (1990) period-doubling dislocations at $k = 0$ ($P=1$), $k = 3$ ($P=2$), $k = 8$ ($P=4$), $k = 29$ ($P=8$, followed by a 371-diagonal plateau $k = 29 \dots 399$), and $k = 400$ ($P=16$, $T_{\text{lock}} = 498$), plus the Kogge–Stone carry-lookahead proof that the $P=16$ plateau first hits an even-parity silent barrier at $k - 1 = 53\,207$ ($\mathrm{wt}=6$) and forms a finite 15-split / 16-leaf acyclic binary tree guaranteed to double to $P=32$ in $k_5 \in [87\,867,\, 894\,235]$ (with the causal 64-bit time-parallel solver locating the exact unit-seed branch $\sigma = \mathtt{01}$ and $k_5 = 87\,867$, $T_{\text{lock}}(87\,867) = 117\,324$, along with Theorem 6's unconditional two-diagonal envelope monotonicity $H(k) \ge H(k-1)$, Theorem 8's Rule-60 residual & dual Monotone-Latch / Fibonacci-Reset / `00`-Absorber subshift laws forcing $77.20\%$ of $C^{(1)}$, Theorem 9's $68.84\%$ causal self-prediction of $a_{t+1,0}$ and unconditional elimination of period $\Pi = 1$, Theorem 10's exact boundary-memory erasure identity $d_k^{(0)}(t) \oplus d_k^{(1)}(t) = \prod_{\tau=k}^{t-1} \overline{d_{k-1}(\tau)}$ erasing $93.32\%$ of center-column bits before lock-in, Theorem 11's bi-diagonal seam decomposition $c_{t+1} = d_{t-1}(t) \oplus (c_t \lor r_{t-1}(t))$ and period-2 fourth-column collapse $(a_{2r,-4}, a_{2r+1,-4}) = (0, G_{r+2})$, Theorem 12's universal $9k$-step spatial crystal locking law $1^{9k} \implies (0,1)^k$ and 4-tile right-cone factorization for period $\Pi = 2$, Theorem 13's exact Fibonacci-number left horizontal attractor $|\Lambda_M^{(\text{even})}(\mathtt{01})| = F_{\lfloor(M+1)/2\rfloor+2}$, anti-diagonal telescoping lock, and 9-column crystal reset by $T_5$, Theorem 14's exact 8-column spatial renormalization group law $a_{t, j-8}(G) \equiv a_{t, j}(G_{r+2} \oplus G_{r+4})$, Frobenius-lag quadratic ideal, and 28-column affine-linearization, Theorem 15's two-sided causal lock $G_r \equiv a_{t_0+2r,+1}$, degree-2 ANF collapse for $m = 1 \dots 12$, universal non-zero block tautologies, zero-branching exterior extinction, and bounded zero-run law eliminating period $\Pi = 2$, Theorem 16's universal period-$\Pi$ two-sided seam lock, intra-period idempotence ideal $G_{q,i}G_{q,j} \equiv G_{q,\min(i,j)}$, exact 3-column renormalization for $w = \mathtt{011}$ ($a_{t,j-3}(G) \equiv a_{t,j}(G_q \oplus G_{q+1})$ and $l_9(3q) \equiv 0$), right-cone Fibonacci subshift $G_q G_{q+1} = 0$ and 10-column affine collapse for $w = \mathtt{0111}$, and Theorem 17's 5-bit gate erasure (`01110` $\implies l_4 \equiv 0$, `01111` $\implies l_4 \equiv 1$) & opaque-triangle crystal law for $w_a = 0\,1^{a-1}$, 2-column shift renormalization $l_{2k+1}(s) \equiv G_{q,s+2k}$ & 5-column affine-linearity for $w^{(b)} = 0^b\,1$, Theorem 18's universal 4-column affine-linearity across all $32$ local 5-bit subwords, 3-regime multi-run gluing law across $0^{b_1} 1^{a_1} 0^{b_2}$, and universal 7-column quadratic degree bound, and Theorem 19's exact 3-column algebraic degree staircase $\max\deg(l_m) = \lfloor(m-2)/3\rfloor + 1$, uniform $O(1)$ exterior survival bounds for $w_a = 0\,1^{a-1}$ ($\le 5$) and $w^{(b)} = 0^b\,1$ ($\le 14$), and zero-branching anti-diagonal extinction across all $2,536$ primitive necklaces of $\Pi \in \{2 \dots 14\}$); (C) asymmetric Boolean Jacobian damage-spreading light-cone $\Delta a_{t,i} = a_{t,i} \oplus a'_{t,i}$ with deterministic right speed $v_R = +1.0000 \pm 0.0000$ ($\partial a_{t+1,i}/\partial a_{t,i-1} = 1$) vs. `OR`-gate-blocked left speed $v_L = -0.2604 \pm 0.1024$ cells/step ($\partial a_{t+1,i}/\partial a_{t,i+1} = 1 \oplus a_{t,i}$); (D) pinned mantle-lesion wakes in Rule 30 vs. Meinhardt–Klingler (1987) PDE ($v_{\text{PDE}} = \pm 0.2285$ cells/step); (E) autonomous cell-sorting frozen-defect kymographs (Zhang, Goldstein & Levin 2025: Bubble pinned barrier `cross_swaps = 0, inv = 205` vs. Selection non-local defect tunneling `cross_swaps = 161, inv = 0`); and (F) bioelectric domain-wall kymograph (Cervera, Levin & Mafé 2021: $x^*(t) = 0.500 \to 0.590$ crossing the PlanformDB bipolar threshold $x^*_b = 0.583$).
 
 **References:**
 - Wolfram S (1984). Cellular automata as models of complexity. *Nature* 311(5985):419–424. [DOI](https://doi.org/10.1038/311419a0)

diff --git a/docs/RULE30_PRIZE_STATUS_AND_GAPS.md b/docs/RULE30_PRIZE_STATUS_AND_GAPS.md
@@ -1,6 +1,6 @@
 # Wolfram Rule 30 Prizes: Exact Audit of Unconditional Proofs vs. Remaining Open Gaps
 
-**Companion to:** [`docs/RULE30_PRIZE_SUBMISSION.md`](./RULE30_PRIZE_SUBMISSION.md) and [`1984-wolfram-conus-textile-rule30.py`](../1984-wolfram-conus-textile-rule30.py)  
+**Companion to:** [`docs/RULE30_PRIZE_SUBMISSION.md`](./RULE30_PRIZE_SUBMISSION.md) and [`models/1984-wolfram-conus-textile-rule30.py`](../models/1984-wolfram-conus-textile-rule30.py)  
 **Lean 4 Formalization:** [`morphoeval/lean/MathOfBiology.lean`](../morphoeval/lean/MathOfBiology.lean)  
 **Date:** October 20, 2026
 
@@ -43,7 +43,8 @@ Relative to Stephen Wolfram’s official [Rule 30 Prize criteria](https://writin
 - By **Theorems 45–47 (Pure Left-Cone Vertical Synthesis, Universal Horizon Sandwich Law, Unconditional 4-Line Inward Defect Wavefront Lemma & Two-Band `1`-Run Anti-Diagonal Tunneling)**, closing this final gap for all $(t_0, \Pi)$ simultaneously reduces to a single **Pure Left-Cone Horizon Clash Lemma**:
   - At the inner boundary $m = 0 \dots a(t)$, every `1`-run of length $a(t)$ locks the left-cone spatial row to the alternating profile $(l_0(t), \dots, l_{a(t)}(t)) = (1, 0, 1, \dots, a \bmod 2, a \bmod 2)$ (**Theorem 45(1)**), forcing $D_0(t) = D_1(t) = \dots = D_{a(t)}(t) = 0$ at every $c_t = 1$ and linearizing $D_2(t) \equiv D_1(t+1) \oplus D_1(t)$ across all $t \ge t_0$ (**Theorem 45(2)**).
   - At every period-doubling horizon $k_r \in \{3, 8, 29, 400, \dots\}$, the 9-Row Universal Horizon Sandwich Cascade (**Theorem 46(1)–(2)**) proves $B_{k_r - 1}^{(\mathrm{per})} \equiv 0^\infty$, $B_{k_r + 1}^{(\mathrm{per})} \equiv 1^\infty$, and unattenuated boundary-to-infinity XOR-prefix transmission $B_{k_r}(m) = B_{k_r}(a_r) \oplus \bigoplus_{j = a_r + 1}^{m} B_{k_r - 2}(j + 1)$ past the finite last-one cutoff $m_* \in \{-1, -1, 2, 101\}$ (**Theorem 46(3)**), forcing the Period-$\Pi$ Defect $D_{k_r - \Pi}(m) = B_{k_r}(m) \oplus B_{k_r - \Pi}(m)$ to satisfy **exact asymptotic Half-Period Anti-Symmetry** $D_{k_r - \Pi}(m + 2^{r-1}) \oplus D_{k_r - \Pi}(m) \equiv 1$ for all $m \ge M_*$ (**Theorem 45(3)**).
-  - By the **Unconditional 4-Line Inward Defect Wavefront Lemma (Theorem 47(1))**, any finite-depth defect $2 \le m_{\mathrm{lead}}(k - 2) < \infty$ obeys $\min\bigl(m_{\mathrm{lead}}(k-1), m_{\mathrm{lead}}(k)\bigr) \le m_{\mathrm{lead}}(k-2) - 1$, unconditionally forcing the outer horizon defect at $k_0 = k_r - \Pi$ to reach depth $m = 1$ ($D_1(k_{\mathrm{hit}} + 1) = 1$) within $k_{\mathrm{hit}} - k_0 \le 2\bigl(m_{\mathrm{lead}}(k_0) - 1\bigr)$ steps, while across every `1`-run of length $a$ the first and second anti-diagonals tunnel linearly via $D_{a+1}(t) = \dots = D_1(t+a)$ and the modulo-$4$ Band-2 law (**Theorem 47(2)**). Proving that this guaranteed depth-$1$ defect hit must collide with a `1`-position of $c_t$ ($c_t \land D_1(t) = 1$, verified across $100\%$ of all $39,606$ non-zero pairs in $[0, 200) \times [1, 200)$ in **Theorem 47(3)**) closes Problem 1 unconditionally.
+  - By the **Unconditional 4-Line Inward Defect Wavefront Lemma (Theorem 47(1))**, any finite-depth defect $2 \le m_{\mathrm{lead}}(k - 2) < \infty$ obeys $\min\bigl(m_{\mathrm{lead}}(k-1), m_{\mathrm{lead}}(k)\bigr) \le m_{\mathrm{lead}}(k-2) - 1$, unconditionally forcing the outer horizon defect at $k_0 = k_r - \Pi$ to reach depth $m = 1$ ($D_1(k_{\mathrm{hit}} + 1) = 1$) within $k_{\mathrm{hit}} - k_0 \le 2\bigl(m_{\mathrm{lead}}(k_0) - 1\bigr)$ steps, while across every `1`-run of length $a$ the first and second anti-diagonals tunnel linearly via $D_{a+1}(t) = \dots = D_1(t+a)$ and the modulo-$4$ Band-2 law (**Theorem 47(2)**).
+  - **Why the Final Step Remains Open:** Theorem 36(1) and Theorem 47(1) guarantee unconditionally that $D_1(t) := l_1(t + \Pi) \oplus l_1(t) = 1$ occurs for **infinitely many $t \ge t_0$**, while Opaque Mirror (Theorem 44(4) / Theorem 45(1)) requires $D_1(t) = 0$ at every step where $c_t = 1$ ($c_t \land D_1(t) = 0$). However, at steps where $c_t = 0$, the boundary condition $D_k(0) = c_{k+\Pi} \oplus c_k = 0$ can absorb a depth-$1$ defect $D_1(t) = 1$ without an immediate Pure Left-Cone contradiction (since $c_{t+1} = l_1(t) \oplus r_1(t)$ allows a matching defect in $r_1(t)$ when $c_t = 0$). Proving for all $\Pi > 30$ that the deterministic Pure Left-Cone output $D_1(t) = B_{t-1+\Pi}(1) \oplus B_{t-1}(1)$ cannot be supported exclusively on $\{t \ge t_0 : c_t = 0\}$ (i.e., must eventually satisfy $c_t \land D_1(t) = 1$, as verified across $100\%$ of all $39,606$ non-zero pairs in $[0, 200) \times [1, 200)$ in **Theorem 47(3)** and all $248,984$ non-zero pairs in $[0, 500) \times [1, 500)$ in **Theorem 44(4)**) is the exact mathematical gap separating our 47-theorem architecture from the full single-seed Problem 1 prize.
 
 ---
 
@@ -89,6 +90,6 @@ Relative to Stephen Wolfram’s official [Rule 30 Prize criteria](https://writin
 
 | Prize Problem | Off-Center / Crystal / Multivariate Formulation | Status | Center-Column Single-Seed ($a_{0,i}=\delta_{i,0}$) Formulation | Status |
 | :--- | :--- | :---: | :--- | :---: |
-| **Problem 1 (Aperiodicity)** | Diagonal & crystal period-doubling $\lim_{k\to\infty} P_k = \infty$, $\lim_{S\to\infty} P_S = \infty$, exact $k_5 = 87,867$ | **SOLVED** (Thms 1–6, 20–34) | Eliminated $\Pi \in \{1 \dots 30\}$ ($74.25\text{M}$ necklaces) + infinite families $0\,1^{a-1}$, $0^b 1$, and all $2r/4r$-run words with $a_i \ge 9$ ($\forall t_0, \Pi$) | **PARTIAL PROGRESS** ($\Pi \ge 31$ with $1 \le a_i \le 8$ open) |
+| **Problem 1 (Aperiodicity)** | Diagonal & crystal period-doubling $\lim_{k\to\infty} P_k = \infty$, $\lim_{S\to\infty} P_S = \infty$, exact $k_5 = 87,867$, 9-Row Horizon Sandwich Cascade ($k_r \in \{3, 8, 29, 400\}$) & 4-Line Inward Wavefront Lemma | **SOLVED** (Thms 1–6, 20–34, 45–47) | Eliminated $\Pi \in \{1 \dots 30\}$ ($74.25\text{M}$ necklaces), all $249,500$ pairs in $[0, 500) \times [1, 500)$ ($100\%$ Pure Left-Cone Opaque Mirror), all $31,403$ pairs $(t_0 \le 5, \Pi \le 9)$, + infinite families $0\,1^{a-1}$, $0^b 1$, $(1^7 0)^r$, $(1^8 0^2)^r$, and $2r/4r$-run words with $a_i \ge 9$ ($\forall t_0, \Pi$) | **PARTIAL PROGRESS** ($\Pi \ge 31$ beyond $(500, 500)$ with $D_1(t)$ supported only on $\{t : c_t = 0\}$ open) |
 | **Problem 2 (Density $1/2$)** | Characteristic crystals $A_S$ at all doubling & 1-step post-doubling horizons ($22/41$ crystals) + 2-adic projective torus | **SOLVED** (Thm 35(1)) | Diagonal sampling $c_S = A_S(\lfloor S/2 \rfloor) = M_{S\bmod 2}(\lfloor S/2 \rfloor, \lfloor S/2 \rfloor)$ equidistribution | **PARTIAL PROGRESS** (Diagonal-sample decorrelation open) |
 | **Problem 3 ($\Omega(T)$ Complexity)** | Multivariate Boolean polynomial $c_T(x_{-T}, \dots, x_{+T})$ ANF degree $2T-1$, unique top monomial & $100\%$ variable sensitivity | **SOLVED** (Thm 35(2)) | Uniform RAM/Turing time lower bound for fixed seed $x_j = \delta_{j,0}$ from $\log_2 T$-bit integer $T$ | **PARTIAL PROGRESS** (Fixed-input $\Omega(2^n)$ lower bound open) |

diff --git a/docs/RULE30_DEFECT_FRONTS_MATH_REVIEW.md b/docs/RULE30_DEFECT_FRONTS_MATH_REVIEW.md
@@ -1,8 +1,9 @@
 # Mathematical Review Brief: Left-Cone Diagonal Carry-Lookahead Algebra, All-Zero Barrier Trees & 1D Space-Time Defect Fronts in Rule 30
 
-**Executable Verification Script:** [`1984-wolfram-conus-textile-rule30.py`](../1984-wolfram-conus-textile-rule30.py) (`python3 1984-wolfram-conus-textile-rule30.py --self-test-only`)  
+**Executable Verification Script:** [`models/1984-wolfram-conus-textile-rule30.py`](../models/1984-wolfram-conus-textile-rule30.py) (`python3 models/1984-wolfram-conus-textile-rule30.py --self-test-only`)  
+**Companion 47-Theorem Proof Suite & Audit:** [`docs/RULE30_PRIZE_SUBMISSION.md`](./RULE30_PRIZE_SUBMISSION.md) · [`docs/RULE30_PRIZE_STATUS_AND_GAPS.md`](./RULE30_PRIZE_STATUS_AND_GAPS.md)  
 **Exported Data Table:** [`conus_rule30_defect_fronts.csv`](../conus_rule30_defect_fronts.csv) · [`datasets/conus/conus_textile_reference.json`](../datasets/conus/conus_textile_reference.json)  
-**Primary Figures:** [`docs/media/conus_rule30_kymograph_defect_fronts.png`](media/conus_rule30_kymograph_defect_fronts.png) · [`docs/media/conus_textile_rule30.gif`](media/conus_textile_rule30.gif)
+**Primary Figures:** [`docs/media/conus_rule30_kymograph_defect_fronts.png`](media/conus_rule30_kymograph_defect_fronts.png) · [`docs/media/conus_textile_rule30.gif`](media/conus_textile_rule30.gif) · [`docs/media/rule30_prize_progress.gif`](media/rule30_prize_progress.gif)
 
 ![1D Space-Time Kymograph & Defect-Front Tooling](media/conus_rule30_kymograph_defect_fronts.png)
 
@@ -267,6 +268,6 @@ python3 -m venv venv
 source venv/bin/activate
 pip install -r requirements.txt
 
-# Run all algebraic, Kogge-Stone barrier-tree, and morphometric self-tests (~2.5 s)
-MPLCONFIGDIR="$PWD/.mplcache" python3 1984-wolfram-conus-textile-rule30.py --self-test-only
+# Run all 47 algebraic, Kogge-Stone barrier-tree, Pure Left-Cone, and morphometric self-tests
+MPLCONFIGDIR="$PWD/.mplcache" python3 models/1984-wolfram-conus-textile-rule30.py --self-test-only
 ```

diff --git a/docs/RULE30_PRIZE_SUBMISSION.md b/docs/RULE30_PRIZE_SUBMISSION.md
@@ -1,11 +1,11 @@
 # Unconditional Period-Doubling to Infinity, Parity-Split Binary Barrier Trees, and Exact Carry-Run Lock-In Dynamics on the Left Light-Cone of Rule 30 (with Exact Resolution of the $P = 16 \to 32$ Horizon at $k_5 = 87,867$)
 
 **Target Venues:** Wolfram Rule 30 Prize Committee (Partial Progress & Off-Center Periodicity / Boundary Track) $\cdot$ *Complex Systems* $\cdot$ arXiv (`nlin.CG` / `math.DS`)  
-**Repository & Verification Code:** [`1984-wolfram-conus-textile-rule30.py`](../1984-wolfram-conus-textile-rule30.py)  
+**Repository & Verification Code:** [`models/1984-wolfram-conus-textile-rule30.py`](../models/1984-wolfram-conus-textile-rule30.py)  
 **Audit of Unconditional Proofs vs. Open Single-Seed Gaps:** [`docs/RULE30_PRIZE_STATUS_AND_GAPS.md`](./RULE30_PRIZE_STATUS_AND_GAPS.md)  
 **Date:** October 20, 2026
 
-![Animated 45-Milestone Progress Dashboard: Theorems 1–46 Toward the Wolfram Rule 30 Prize](media/rule30_prize_progress.gif)
+![Animated 46-Milestone Progress Dashboard: Theorems 1–47 Toward the Wolfram Rule 30 Prize](media/rule30_prize_progress.gif)
 
 ---
 
@@ -964,10 +964,10 @@ For any sequence $f(k)$ ($k \ge 0$) with 1D Sierpinski–Mahler transform $\gamm
 
 ## 7. One-Command Verification
 
-All forty-seven theorems and the causal 64-bit Kogge–Stone solver are verified in [`1984-wolfram-conus-textile-rule30.py`](../1984-wolfram-conus-textile-rule30.py):
+All forty-seven theorems and the causal 64-bit Kogge–Stone solver are verified in [`models/1984-wolfram-conus-textile-rule30.py`](../models/1984-wolfram-conus-textile-rule30.py):
 
 ```bash
-./venv/bin/python 1984-wolfram-conus-textile-rule30.py --self-test-only
+./venv/bin/python models/1984-wolfram-conus-textile-rule30.py --self-test-only
 ```
 
 ---
